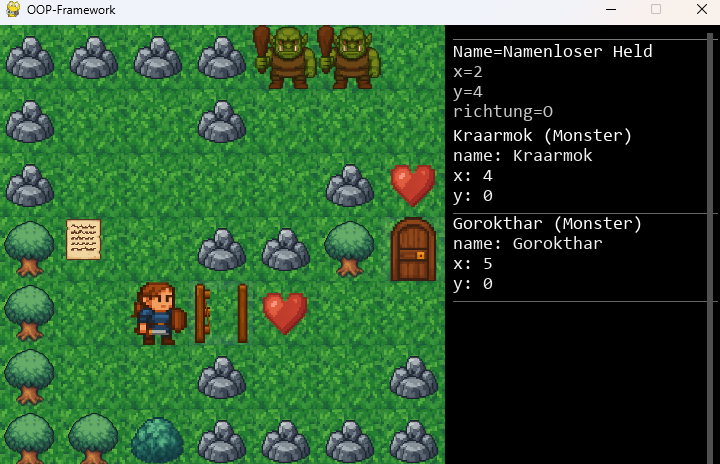
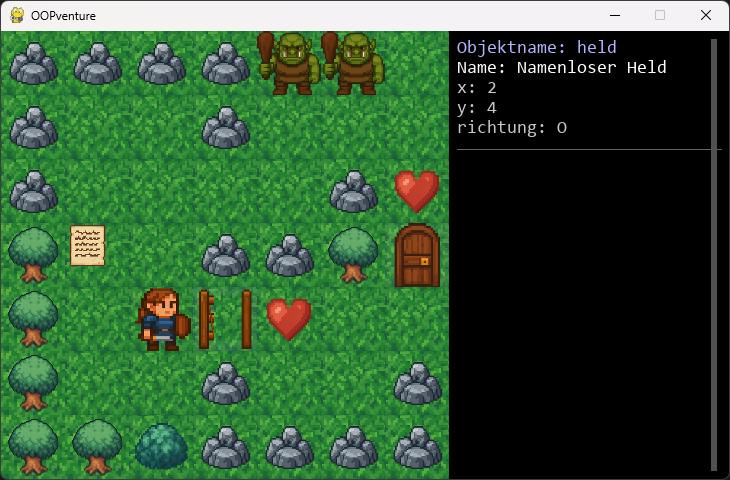
Update README.md to include help window information and copyright year adjustment; update gameplay image

diff --git a/README.md b/README.md
@@ -78,7 +78,7 @@ In dieser Phase implementieren die Schüler eigene Klassen:
 
 ### Grundstruktur der `schueler.py`
 
-In der `schueler.py` lösen die Schülerinnen und Schüler die Level 0 bis 34. Über die Leveldateien wird gesteuert, auf welche Objekte sie Zugriff erhalten und ob deren Attribute privat oder öffentlich sind. 
+In der `schueler.py` lösen die Schülerinnen und Schüler die Level 0 bis 34. Über die Leveldateien wird gesteuert, auf welche Objekte sie Zugriff erhalten und ob deren Attribute privat oder öffentlich sind. Ein Hilfefenster mit weiteren Informationen kann über die F1-Taste aufgerufen werden.
 
 ```python
 from framework.grundlage import level
@@ -160,7 +160,7 @@ while not held.ist_auf_herz():
 
 ## 🏗 Klassen implementieren (Phase 2)
 
-Ab Level 35 müssen eigene Klassen erstellt (zunächst innerhalb der `schueler.py`) und ab Level 38 im Ordner `klassen/` in eigene Dateien ausgelagert werden. Ab diesen Leveln wird automatisch die Schülerklasse verwendet, wobei das Rendering und Teile der Spiellogik (z.B. Tastatursteuerung) weiterhin vom Framework übernommen werden. In den Leveldateien ist festgelegt, wie die Klassen zu implementieren sind. Um ein Level zu lösen, muss die Implementierung nach den Vorgaben erfolgen.
+Ab Level 35 müssen eigene Klassen erstellt (zunächst innerhalb der `schueler.py`) und ab Level 38 im Ordner `klassen/` in eigene Dateien ausgelagert werden. Ab diesen Leveln wird automatisch die Schülerklasse verwendet, wobei das Rendering und Teile der Spiellogik (z.B. Tastatursteuerung) weiterhin vom Framework übernommen werden. In den Leveldateien ist festgelegt, wie die Klassen zu implementieren sind. Um ein Level zu lösen, muss die Implementierung nach den Vorgaben erfolgen. Auch hier gibt es über die F1-Taste weitere Hilfen.
 
 ### Beispiel: Einfache Held-Klasse (Level 38)
 
@@ -280,6 +280,7 @@ oop_framework/
 
 1. [Framework Distribution](https://raw.githubusercontent.com/harzj/oop_framework/main/Framwork_Version_1_0_Release.zip) herunterladen (aktuell 1.0) und entpacken
 2. `schueler.py` mit beliebiger Python IDE öffnen, bearbeiten und ausführen
+3. Ggf. Hilfe über F1-Taste einholen.
 
 **Alternativ**:
 1. Repository herunterladen und anpassen
@@ -303,7 +304,7 @@ oop_framework/
 
 **Bildungslizenz für OOPventure**
 
-Copyright © 2025 Johannes Harz, Cusanus Gymnasium St. Wendel
+Copyright © 2025-2026 Johannes Harz, Cusanus Gymnasium St. Wendel
 CC BY-NC-SA 4.0
 
 ### Erlaubnisse:
